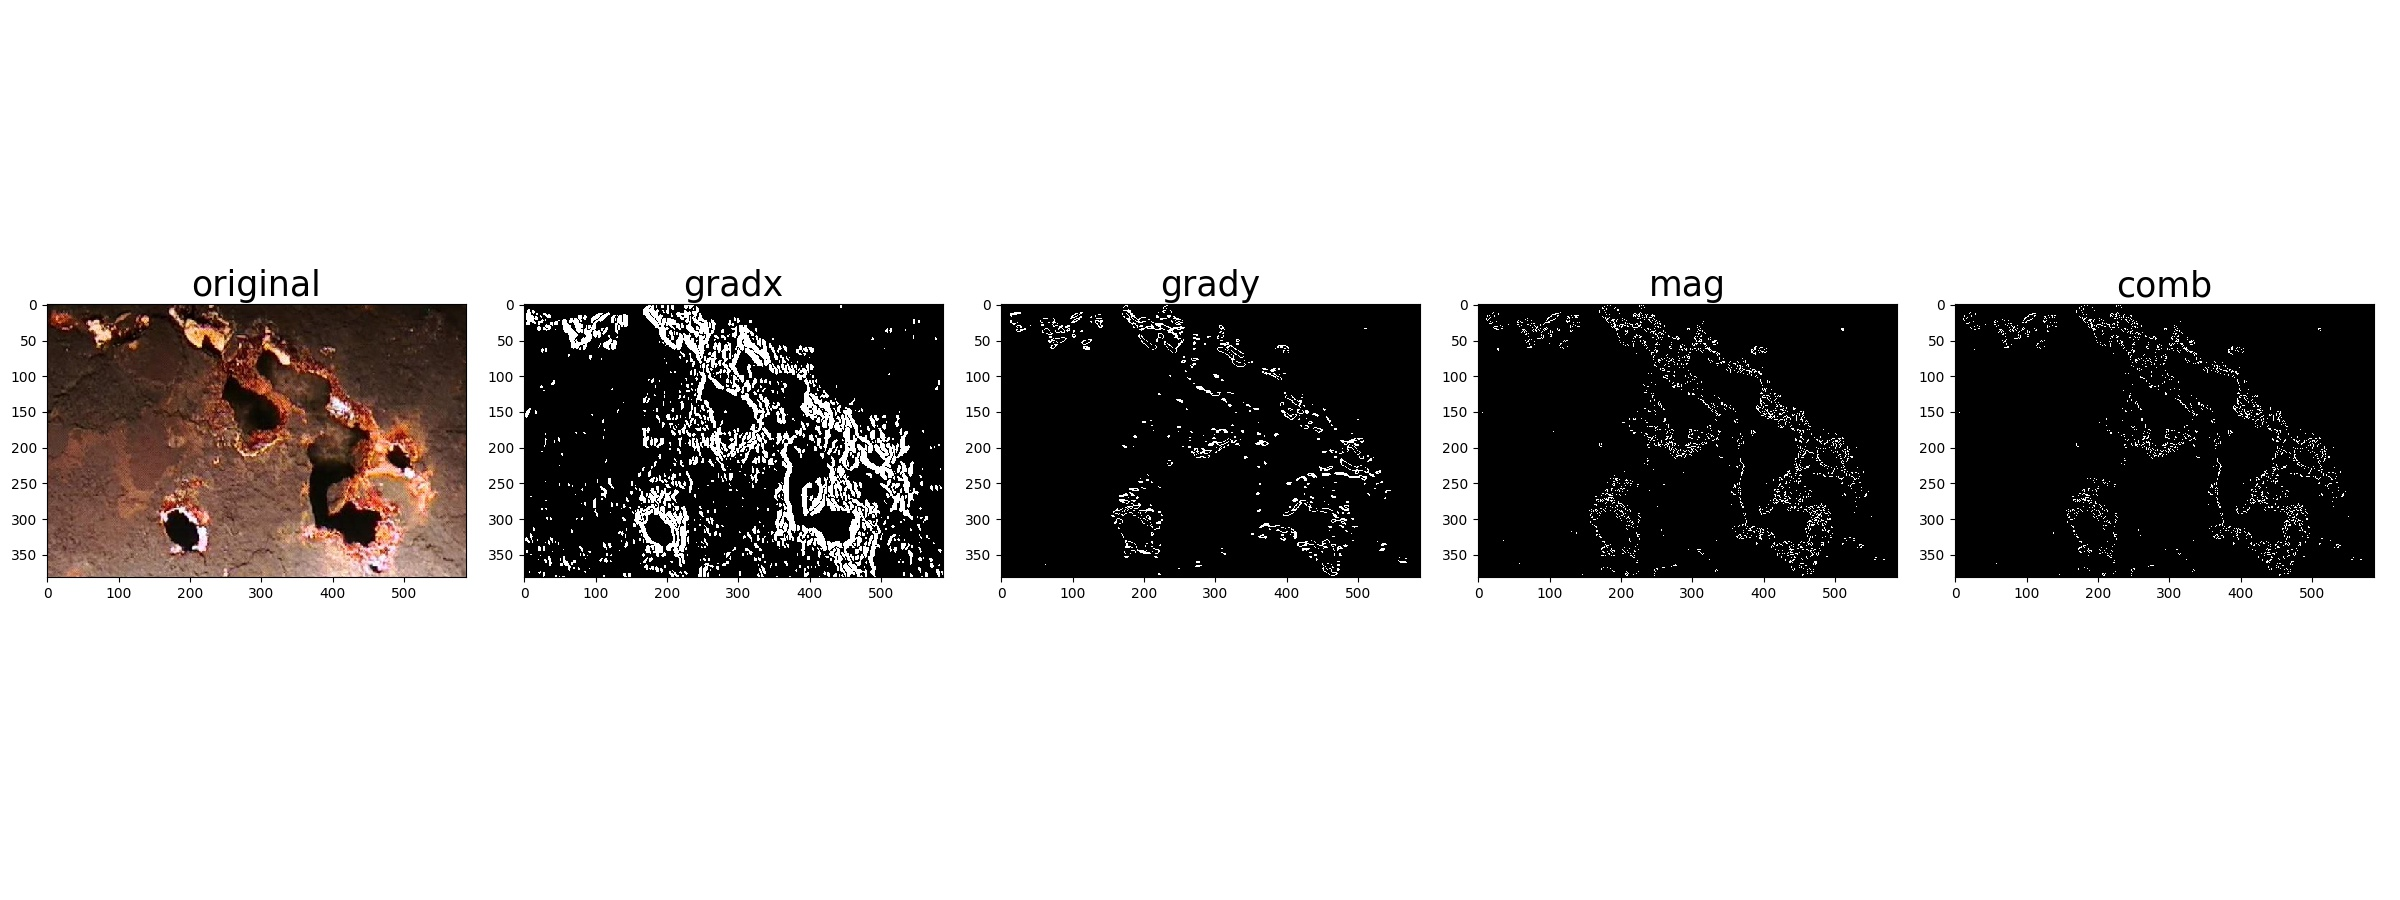
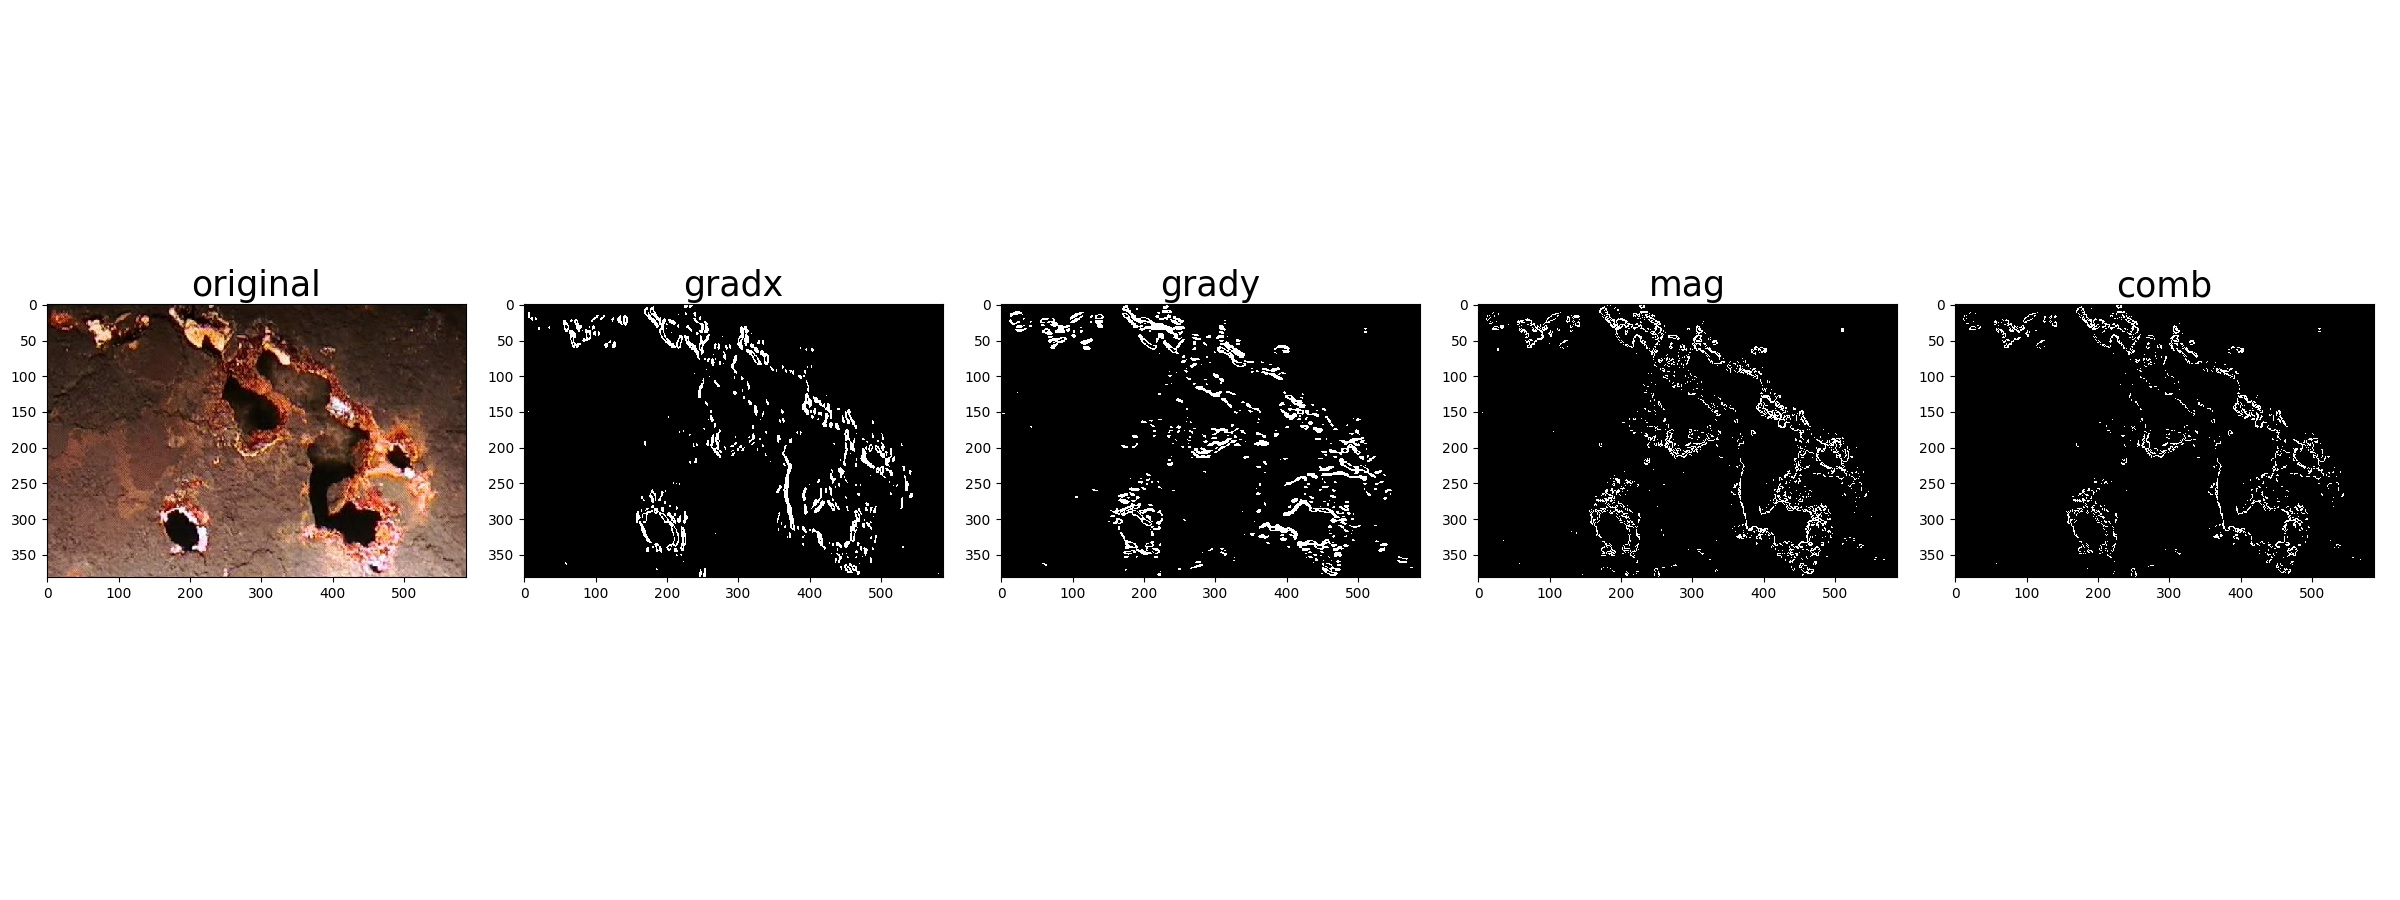
tuning in progress

Changed region(s): [[0.2188, 0.3422, 0.375, 0.6533], [0.5312, 0.56, 0.5625, 0.5911], [0.4688, 0.3422, 0.5, 0.3733]]

diff --git a/Crack_Detection/noise_reduction.py b/Crack_Detection/noise_reduction.py
@@ -23,6 +23,7 @@ def apply_morphological_ops(sobel_output,kernel):
         erosion = cv2.erode(dilate, kernel2, iterations=4)
         closing = cv2.morphologyEx(image, cv2.MORPH_CLOSE, kernel)
         opening = cv2.morphologyEx(image, cv2.MORPH_OPEN, kernel)
+        final = cv2.erode(closing, kernel2, iterations=1)
         f, (ax1, ax2,ax3,ax4,ax5,ax6) = plt.subplots(1, 6, figsize=(24, 7))
         f.tight_layout()
 
@@ -41,7 +42,7 @@ def apply_morphological_ops(sobel_output,kernel):
         ax5.imshow(closing, cmap='gray')
         ax5.set_title('closing', fontsize=25)
 
-        ax6.imshow(dilate, cmap='gray')
+        ax6.imshow(closing, cmap='gray')
         ax6.set_title('final', fontsize=25)
 
         x+=1

diff --git a/Crack_Detection/gradient_detection.py b/Crack_Detection/gradient_detection.py
@@ -100,10 +100,10 @@ def apply_sobel_operations(show_plots=False):
 
     # Choose a Sobel kernel size
     ksize = 17  # Choose a larger odd number to smooth gradient measurements
-    x_gradient_threshold = (20, 200)
-    y_gradient_threshold = (60, 100)
+    x_gradient_threshold = (50, 150)
+    y_gradient_threshold = (50, 150)
     direction_threshold = (0.6, 1.4)
-    magnitude_threshold = (70, 100)
+    magnitude_threshold = (70, 150)
 
     output_images=[]
 
